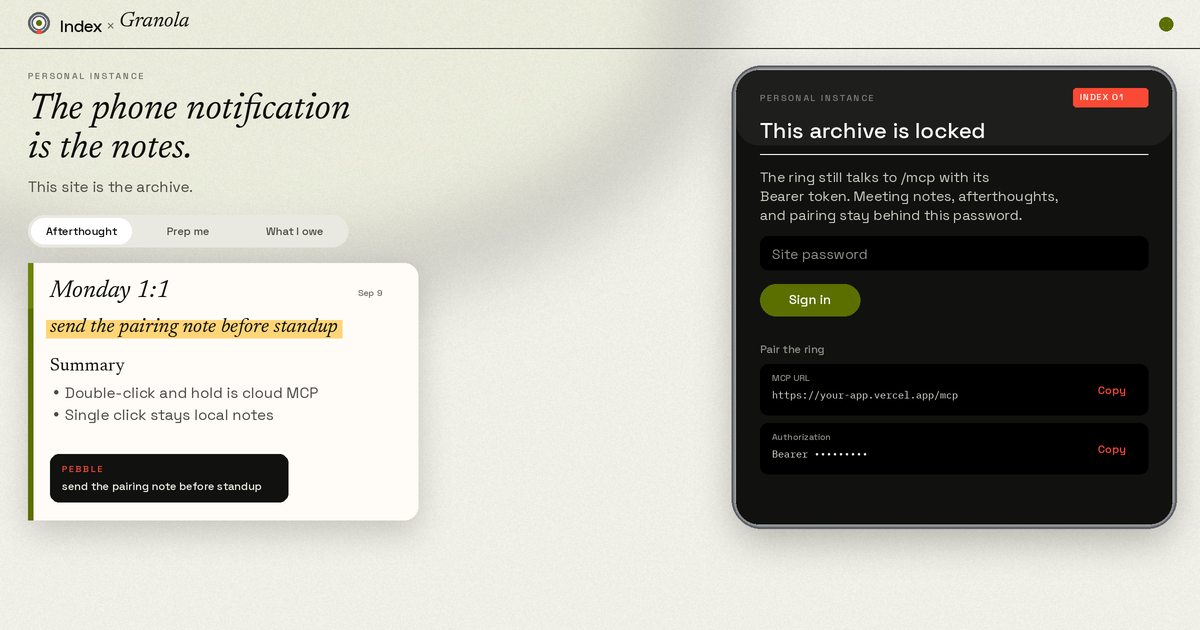
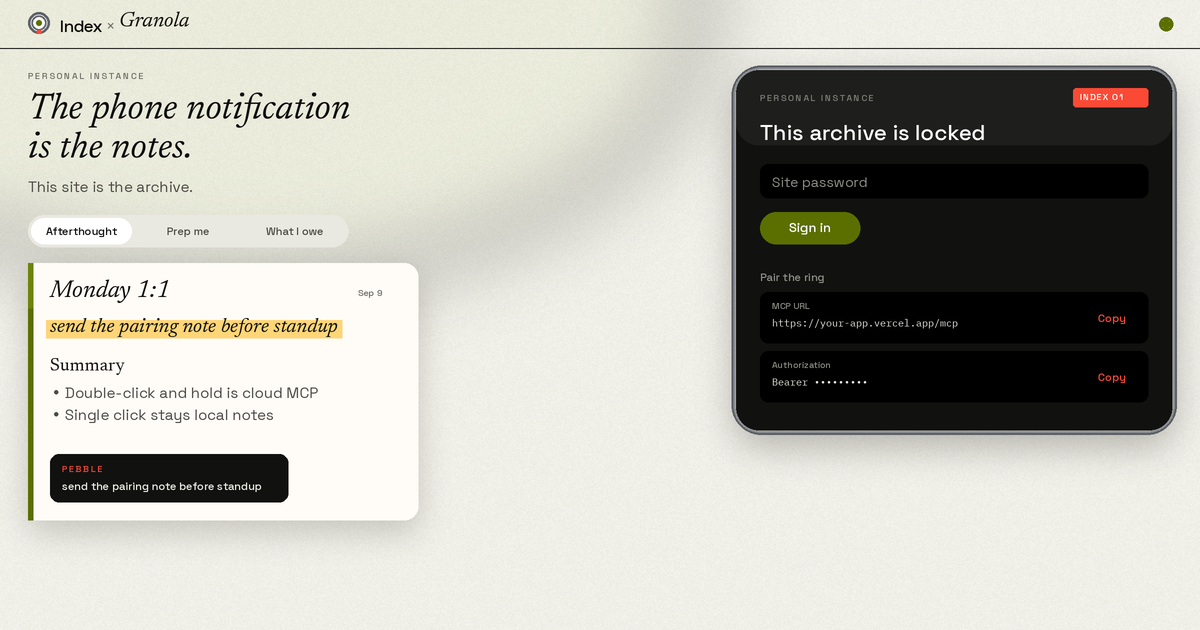
Drop the lock-screen Bearer explainer.
The gate is just Personal instance, This archive is locked, and the
password field. Refresh the README hero to match.

diff --git a/app/gate.tsx b/app/gate.tsx
@@ -50,10 +50,6 @@ export function Gate({ configured }: { configured: boolean }) {
       <section className="steel-panel gate-panel">
         <p className="kicker kicker-light">Personal instance</p>
         <h1>This archive is locked</h1>
-        <p className="gate-copy">
-          The ring still talks to <code>/mcp</code> with its Bearer token. Meeting
-          notes, afterthoughts, and pairing stay behind this password.
-        </p>
         {configured ? (
           <form className="gate-form" onSubmit={(event) => void submit(event)}>
             <label className="sr-only" htmlFor="site-password">

diff --git a/app/globals.css b/app/globals.css
@@ -1135,7 +1135,7 @@ div.lane-sheet {
 .gate-form {
   display: grid;
   gap: 0.7rem;
-  margin-top: 1.1rem;
+  margin-top: 1.15rem;
 }
 
 .gate-form input {
